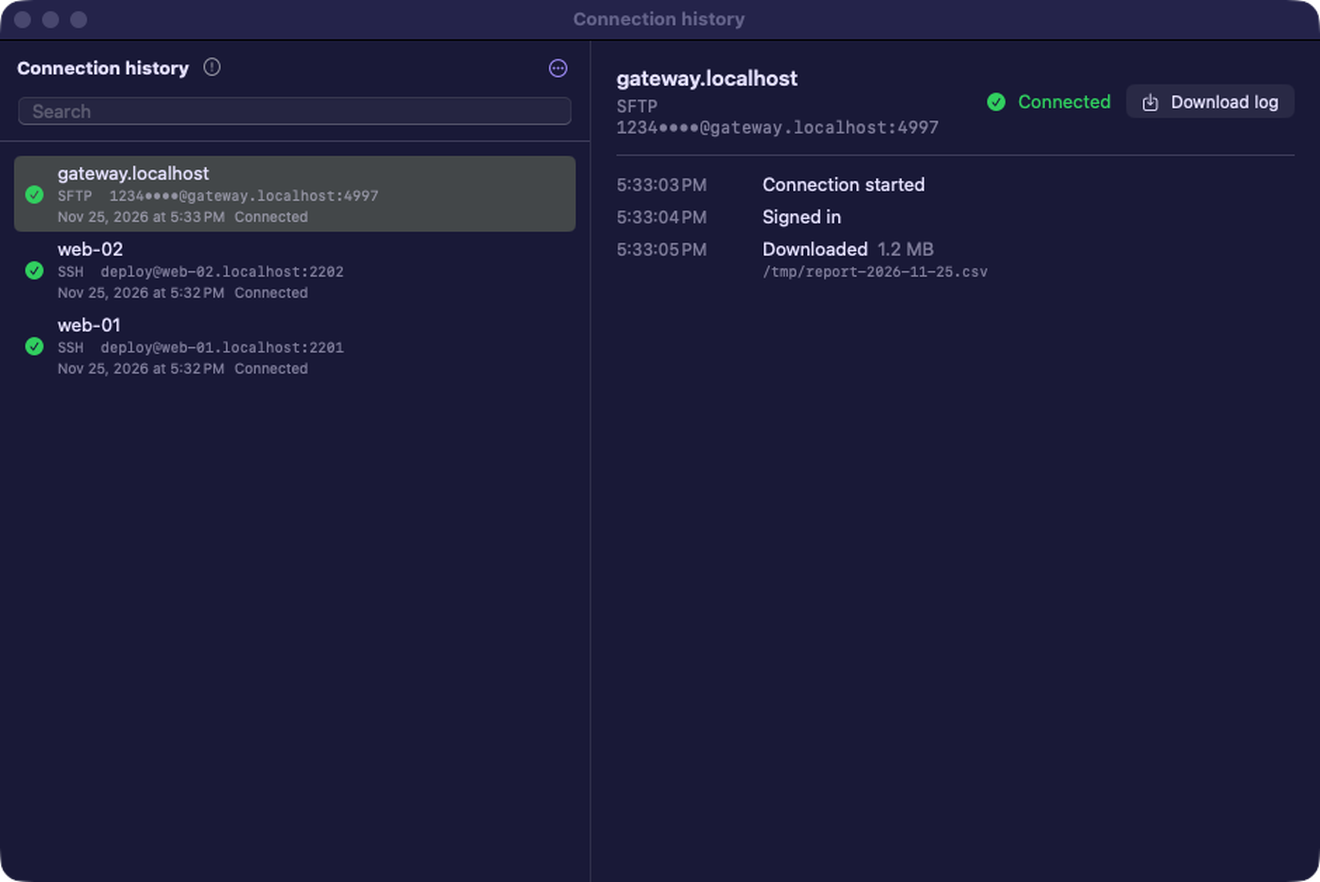
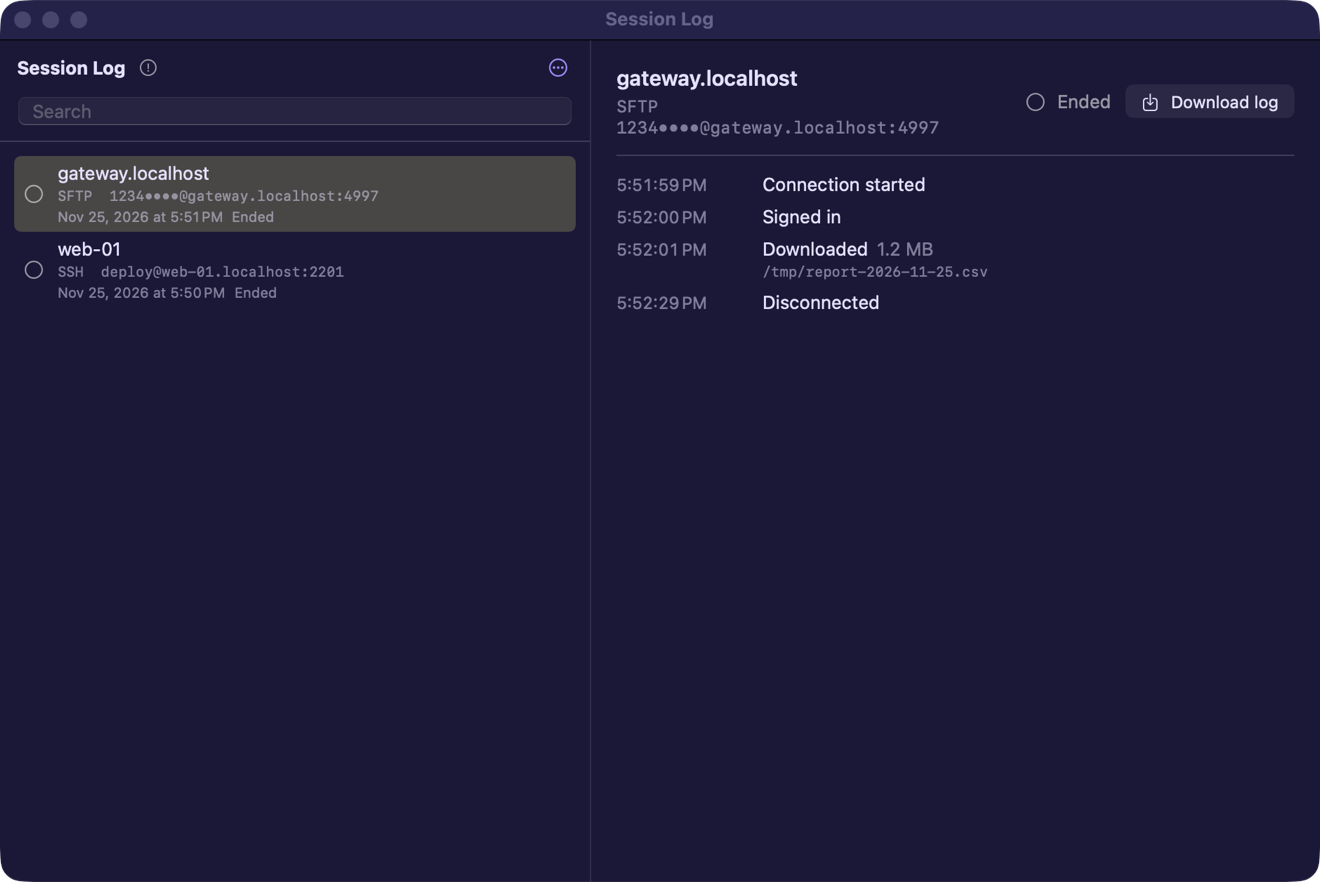
Release Gloamux 1.4.1 (build 10)
- Session Log is the third view in the Default toolbar, next to File
  Transfer and Terminal, with buttons in the Classic toolbar and the
  Workbench ribbon.
- Right-click a saved session to see only records that match its name.
- gloamux tabs view TAB_ID session-log and gloamux history list COUNT
  SEARCH.

diff --git a/Gloamux/Sources/app/ConnectionHistoryView.swift b/Gloamux/Sources/app/ConnectionHistoryView.swift
@@ -9,25 +9,17 @@ struct ConnectionHistoryView: View {
     @AppStorage(ConnectionHistory.enabledKey) private var enabled = true
     @AppStorage(TerminalPreferences.logKey) private var logsEverySession = false
     @State private var selection: UUID?
-    @State private var search = ""
     @State private var confirmsClear = false
     @State private var error: String?
 
-    private var shown: [ConnectionRecord] {
-        let words = search.split(whereSeparator: \.isWhitespace)
-        guard !words.isEmpty else { return history.records }
-        return history.records.filter { record in
-            let text = [record.name, record.address, record.kind] + record.transfers.compactMap(\.detail)
-            return words.allSatisfy { word in text.contains { $0.localizedStandardContains(String(word)) } }
-        }
-    }
+    private var shown: [ConnectionRecord] { history.matching(history.search) }
 
     var body: some View {
         let records = shown
         HSplitView {
             VStack(alignment: .leading, spacing: 0) {
                 HStack(spacing: 8) {
-                    Text(T("Connection history")).appFont(.headline)
+                    Text(T("Session Log")).appFont(.headline)
                     InfoButton(T("Each connection is saved as one record: when, where, how it ended, and which files were copied. Passwords, session keys, answers, and terminal output are not part of it. Records are kept for a year, up to 2,000."))
                     Spacer()
                     Menu {
@@ -43,10 +35,10 @@ struct ConnectionHistoryView: View {
                         .accessibilityLabel(T("History options"))
                 }
                 .padding(12)
-                TextField(T("Search"), text: $search).textFieldStyle(.roundedBorder).padding(.horizontal, 12).padding(.bottom, 10)
+                TextField(T("Search"), text: $history.search).textFieldStyle(.roundedBorder).padding(.horizontal, 12).padding(.bottom, 10)
                 Divider()
                 if records.isEmpty {
-                    ContentUnavailableView(T(search.isEmpty ? "No connections yet" : "No matches"), systemImage: "clock.arrow.circlepath")
+                    ContentUnavailableView(T(history.search.isEmpty ? "No connections yet" : "No matches"), systemImage: "clock.arrow.circlepath")
                         .frame(maxWidth: .infinity, maxHeight: .infinity)
                 } else {
                     List(records, selection: $selection) { record in
@@ -70,7 +62,11 @@ struct ConnectionHistoryView: View {
             }
             .frame(minWidth: 420, maxWidth: .infinity, maxHeight: .infinity)
         }
-        .onAppear { history.reload(); if selection == nil { selection = history.records.first?.id } }
+        .onAppear { history.reload(); if selection == nil { selection = shown.first?.id } }
+        .onChange(of: history.search) { _, _ in
+            let records = shown
+            if !records.contains(where: { $0.id == selection }) { selection = records.first?.id }
+        }
         .alert(T("Clear the connection history?"), isPresented: $confirmsClear) {
             Button(T("Clear"), role: .destructive) { perform { try history.clear() } }
             Button(T("Cancel"), role: .cancel) {}
@@ -128,6 +124,16 @@ struct ConnectionHistoryView: View {
 }
 
 extension ConnectionHistory {
+    /// Records whose name, address, kind, or copied files contain every word.
+    func matching(_ search: String) -> [ConnectionRecord] {
+        let words = search.split(whereSeparator: \.isWhitespace)
+        guard !words.isEmpty else { return records }
+        return records.filter { record in
+            let text = [record.name, record.address, record.kind] + record.transfers.compactMap(\.detail)
+            return words.allSatisfy { word in text.contains { $0.localizedStandardContains(String(word)) } }
+        }
+    }
+
     func exportJSON(_ records: [ConnectionRecord]) throws -> Data {
         try JSONSerialization.data(withJSONObject: records.map { json($0, events: true) }, options: [.prettyPrinted, .sortedKeys, .withoutEscapingSlashes])
     }

diff --git a/Gloamux/Sources/app/Workspace.swift b/Gloamux/Sources/app/Workspace.swift
@@ -381,11 +381,8 @@ enum ConnectionState: Equatable {
     var sessionWindows: [UUID: SavedSessionWindow] = [:]
     /// Uploads and downloads started from any file panel or window.
     lazy var transfers = TransferQueue(model: self)
-    /// Whether the middle of the main window shows terminals or the two-pane file transfer view.
-    @Published private var showingFileTransfer = false
-    var workspaceMode: WorkspaceMode {
-        showingFileTransfer ? .files : .terminal
-    }
+    /// What the middle of the main window shows: the two-pane file transfer view, terminals, or the session log.
+    @Published private(set) var workspaceMode: WorkspaceMode = .terminal
     /// A session in its own window whose files the transfer view shows instead of the selected tab's.
     @Published var pinnedTransferTab: UUID?
     /// The left-hand folder of the file transfer view, kept while switching tabs and modes.
@@ -460,6 +457,8 @@ enum ConnectionState: Equatable {
         tab.outputPending = false
         if maximizedPane != nil && !(split?.contains(id) ?? false) { maximizedPane = nil }
         selection = id; pinnedTransferTab = nil
+        // The session log does not follow the tabs, so choosing one leaves it.
+        if workspaceMode == .log { workspaceMode = .terminal }
         if focusTerminal { tab.terminalFocusRequest += 1 }
     }
 
@@ -612,7 +611,7 @@ enum ConnectionState: Equatable {
         if remember, let type { NewConnectionType.last = type }
         let tab = addTab(select: false)
         tab.newConnectionType = type ?? NewConnectionType.last
-        showingFileTransfer = false
+        workspaceMode = .terminal
         selectTab(tab.id)
         return tab
     }
@@ -1142,7 +1141,7 @@ enum ConnectionState: Equatable {
     func reveal(tab id: UUID) {
         if let window = sessionWindows[id]?.window { window.makeKeyAndOrderFront(nil); return }
         guard tabs.contains(where: { $0.id == id }) else { return }
-        showingFileTransfer = false
+        workspaceMode = .terminal
         selectTab(id)
         bringForward()
     }
@@ -1281,11 +1280,22 @@ enum ConnectionState: Equatable {
             pinnedTransferTab = nil
             if let tab, tab.id != selection { selectTab(tab.id, focusTerminal: false) }
         }
-        showingFileTransfer = true
+        workspaceMode = .files
+    }
+
+    /// The Default layout shows the session log in the main window; the others open its own window.
+    /// `search` narrows the list, for example to one session's name.
+    func showConnectionHistory(search: String = "") {
+        history.reload()
+        history.search = search
+        guard layout == .native else { openTool(.connectionHistory); return }
+        workspaceMode = .log
+        // Opened from Settings or a session's own window, the log is in the window behind it.
+        workspaceWindow?.makeKeyAndOrderFront(nil)
     }
 
     func showTerminal() {
-        showingFileTransfer = false
+        workspaceMode = .terminal
         pinnedTransferTab = nil
         if let selected, selected.desktop == nil && selected.newConnectionType?.editorTool == nil {
             selected.terminalFocusRequest += 1
@@ -1445,7 +1455,7 @@ enum ConnectionState: Equatable {
             controller.showWindow(nil)
             controller.window?.makeKeyAndOrderFront(nil)
         } else {
-            showingFileTransfer = false
+            workspaceMode = .terminal
             selectTab(tab.id, focusTerminal: false)
         }
         return tab

diff --git a/Gloamux/Sources/app/CLICatalog.swift b/Gloamux/Sources/app/CLICatalog.swift
@@ -151,13 +151,13 @@ public enum CLICatalog {
             window TAB_ID | attach TAB_ID
             read TAB_ID [LINES] | send TAB_ID TEXT | run TAB_ID COMMAND_LINE
             readonly TAB_ID on|off | log TAB_ID on|off | record TAB_ID on|off | encoding TAB_ID ENCODING
-            integration TAB_ID | view TAB_ID terminal|files
+            integration TAB_ID | view TAB_ID terminal|files|session-log
             colors TAB_ID XCS_PATH | highlights TAB_ID HIGHLIGHT_PATH
 
             Tab IDs come from gloamux tabs list and stay the same while the tab is open, in any window.
             record saves what the terminal shows, with secrets masked; list them with gloamux recordings.
-            integration types the shell integration hook into the terminal. view switches the window to the terminal or to
-            two-pane file transfer for the tab.
+            integration types the shell integration hook into the terminal. view switches the window to the terminal, to
+            two-pane file transfer for the tab, or to the session log.
             broadcast types into the panes of a split. multiexec types into every terminal of the tab's window.
             read prints the visible screen, or the last LINES lines with scrollback. run presses Return after the text.
             A risky command in a confirming environment waits for your answer in Gloamux.
@@ -224,7 +224,7 @@ public enum CLICatalog {
                    operations: ["list", "show", "log", "export", "remove", "clear"],
                    localPaths: ["log": [1], "export": [0]],
                    help: """
-            list [COUNT] | show ID | log ID PATH | export PATH.csv|PATH.json | remove ID | clear
+            list [COUNT [SEARCH]] | show ID | log ID PATH | export PATH.csv|PATH.json | remove ID | clear
 
             Each connection is one record: when, where, how it ended, and which files were copied. log writes one record as
             text, with its terminal log when there is one. Turn history off with gloamux settings set history.enabled off.

diff --git a/Gloamux/Tests/app/ConnectionHistoryTests.swift b/Gloamux/Tests/app/ConnectionHistoryTests.swift
@@ -56,6 +56,29 @@ import XCTest
         XCTAssertEqual(app.records, [])
     }
 
+    func testSearchAndTheSessionLogView() throws {
+        let model = try WorkspaceModel(storage: scratch())
+        let id = try XCTUnwrap(model.history.begin(name: "Gateway", kind: "sftp", host: "192.0.2.10", port: 4997, user: "u"))
+        model.history.add(.downloaded, to: id, detail: "/tmp/report.csv")
+        _ = model.history.begin(name: "Other", kind: "ssh", host: "192.0.2.11", port: 22, user: "u")
+        model.history.reload()
+        XCTAssertEqual(model.history.matching("").count, 2)
+        XCTAssertEqual(model.history.matching("gateway REPORT").map(\.id), [id])
+        XCTAssertEqual(model.history.matching("gateway other").count, 0)
+
+        let tab = model.addTab()
+        model.showConnectionHistory(search: "Gateway")
+        XCTAssertEqual(model.workspaceMode, .log)
+        XCTAssertEqual(model.history.search, "Gateway")
+        // Choosing a tab leaves the log, and opening the log again starts with everything.
+        model.selectTab(tab.id)
+        XCTAssertEqual(model.workspaceMode, .terminal)
+        model.showConnectionHistory()
+        XCTAssertEqual(model.history.search, "")
+        model.openFileTransfer(for: nil)
+        XCTAssertEqual(model.workspaceMode, .files)
+    }
+
     func testDamagedLinesAndLogsOutsideTheFolder() throws {
         let root = try scratch()
         let file = root.appendingPathComponent("history.jsonl")

diff --git a/Gloamux/Sources/app/FileTransferView.swift b/Gloamux/Sources/app/FileTransferView.swift
@@ -5,12 +5,13 @@ import FileTransfer
 
 /// What the main window shows in the macOS layout.
 enum WorkspaceMode: String, CaseIterable {
-    case files, terminal
+    case files, terminal, log
 
     var title: String {
         switch self {
         case .terminal: return T("Terminal")
         case .files: return T("File Transfer")
+        case .log: return T("Session Log")
         }
     }
 }
@@ -21,7 +22,7 @@ struct WorkspaceModeSwitch: View {
     let choose: (WorkspaceMode) -> Void
 
     var body: some View {
-        // Both halves take the wider title's width, so the switch is symmetric in every language.
+        // Every segment takes the wider title's width, so the switch is symmetric in every language.
         EqualWidthRow(spacing: 2) {
             ForEach(WorkspaceMode.allCases, id: \.self) { segment($0) }
         }
@@ -33,7 +34,7 @@ struct WorkspaceModeSwitch: View {
     private func segment(_ value: WorkspaceMode) -> some View {
         let selected = mode == value
         return Button { if !selected { choose(value) } } label: {
-            // The bold title is laid out hidden underneath, so choosing a side doesn't change its width.
+            // The bold title is laid out hidden underneath, so choosing one doesn't change its width.
             ZStack {
                 Text(value.title).appFont(.system(size: 12, weight: .semibold)).hidden()
                 Text(value.title)

diff --git a/Gloamux/Sources/app/TerminalTools.swift b/Gloamux/Sources/app/TerminalTools.swift
@@ -82,7 +82,7 @@ public struct TerminalCommands: Commands {
             Button(T(menu.logging ? "Stop session log" : "Start session log")) { model.toggleLogging() }
                 .keyboardShortcut("l", modifiers: [.command, .option])
                 .disabled(!live && !menu.logging)
-            Button(T("Connection history")) { model.showConnectionHistory() }
+            Button(T("Session Log")) { model.showConnectionHistory() }
             Button(T("Show session logs")) { model.logs.revealFolder() }
             Button(T("Save output…")) { model.saveOutput() }
                 .keyboardShortcut("s", modifiers: [.command, .shift])
@@ -221,8 +221,8 @@ struct LogIndicator: View {
         if logs.isLogging(tab) {
             Menu {
                 Button(T("Stop session log")) { model.toggleLogging(tab) }
-                Button(T("Connection history")) { model.showConnectionHistory() }
-            Button(T("Show session logs")) { logs.revealFolder() }
+                Button(T("Session Log")) { model.showConnectionHistory() }
+                Button(T("Show session logs")) { logs.revealFolder() }
             } label: {
                 HStack(spacing: 3) {
                     Image(systemName: "doc.text").appFont(.system(size: 9, weight: .semibold))

diff --git a/Gloamux/Sources/app/DesktopView.swift b/Gloamux/Sources/app/DesktopView.swift
@@ -480,9 +480,10 @@ public struct DesktopView: View {
             switch mode {
             case .terminal: model.showTerminal()
             case .files: model.openFileTransfer(for: nil)
+            case .log: model.showConnectionHistory()
             }
         }
-        .help(T("Switch between the terminal and two-pane file transfer"))
+        .help(T("Switch between file transfer, the terminal, and the session log"))
         .accessibilityIdentifier("workspaceModePicker")
     }
 
@@ -541,6 +542,10 @@ public struct DesktopView: View {
         ZStack {
             if model.layout == .native && model.workspaceMode == .files {
                 FileTransferView(model: model, local: model.localBrowser, queue: model.transfers, target: model.mainTransferTarget)
+            } else if model.layout == .native && model.workspaceMode == .log {
+                ConnectionHistoryView(model: model, history: model.history)
+                    .background(model.theme.background.color)
+                    .clipShape(RoundedRectangle(cornerRadius: 10, style: .continuous))
             } else if let split = model.split {
                 if let id = model.maximizedPane, let tab = model.tabs.first(where: { $0.id == id }) {
                     pane(tab, card: true)

diff --git a/Gloamux/Sources/app/ClassicLayouts.swift b/Gloamux/Sources/app/ClassicLayouts.swift
@@ -243,6 +243,7 @@ private struct ClassicToolbar<NewItems: View>: View {
             }
             ToolSeparator()
             SessionLogIcon(model: model, logs: model.logs)
+            ToolIcon(symbol: "clock.arrow.circlepath", help: "Session Log", color: .brown) { model.showConnectionHistory() }
             ToolIcon(symbol: "highlighter", help: "Import highlight set", color: .yellow, enabled: tab.map { $0.desktop == nil } ?? false) {
                 model.chooseHighlightSet()
             }
@@ -507,6 +508,7 @@ private struct MobaRibbon<NewItems: View>: View {
             RibbonButton(symbol: "x.square.fill", title: "X server", color: .indigo, active: xServerRunning) {
                 if let problem = XQuartz.open() { model.error = problem }
             }
+            RibbonButton(symbol: "clock.arrow.circlepath", title: "Session Log", color: .brown) { model.showConnectionHistory() }
             RibbonButton(symbol: "key.fill", title: "Saved passwords", color: .yellow) {
                 Task { if await model.authorizeSavedSignIns() { showingSignIns = true } }
             }

diff --git a/Gloamux/Sources/app/WorkspaceCommandTools.swift b/Gloamux/Sources/app/WorkspaceCommandTools.swift
@@ -104,7 +104,7 @@ extension WorkspaceCommand {
         }
     }
 
-    /// `history list [COUNT]|show ID|log ID PATH|export PATH|remove ID|clear`: the Connection history window.
+    /// `history list [COUNT [SEARCH]]|show ID|log ID PATH|export PATH|remove ID|clear`: the Session Log.
     @MainActor static func history(_ action: String, _ args: [String], _ model: WorkspaceModel) throws -> Any {
         let history = model.history
         history.reload()
@@ -121,9 +121,9 @@ extension WorkspaceCommand {
         }
         switch action {
         case "list":
-            try count(args, 0...1)
+            try count(args, 0...2)
             guard let limit = args.first.map({ Int($0) }) ?? 50, limit > 0 else { throw Usage("Enter how many connections to list.") }
-            return history.records.prefix(limit).map { history.json($0) }
+            return history.matching(args.count > 1 ? args[1] : "").prefix(limit).map { history.json($0) }
         case "show":
             try count(args, 1...1)
             return history.json(try record(args[0]), events: true)

diff --git a/Gloamux/Sources/app/CommandPalette.swift b/Gloamux/Sources/app/CommandPalette.swift
@@ -142,7 +142,7 @@ extension WorkspaceModel {
                 shortcut: "⌥⌘R") { [weak self] in self?.toggleRecording(tab) }
         }
         add("recordings", "Recordings…", "play.rectangle", "Terminal") { [weak self] in self?.showRecordings() }
-        add("history", "Connection history", "clock.arrow.circlepath", "Session") { [weak self] in self?.showConnectionHistory() }
+        add("history", "Session Log", "clock.arrow.circlepath", "Session") { [weak self] in self?.showConnectionHistory() }
         add("sftp.command", "New session from sftp command", "arrow.up.arrow.down.circle", "Session") { [weak self] in self?.showSFTPCommand() }
         add("runbooks", "Runbooks…", "book.pages", "Terminal") { [weak self] in self?.showRunbooks() }
         for file in runbooks.files.prefix(30) {

diff --git a/Gloamux/Sources/app/ToolWindows.swift b/Gloamux/Sources/app/ToolWindows.swift
@@ -11,7 +11,7 @@ enum ToolWindowKind: String, CaseIterable {
         case .runbooks: return "Runbooks"
         case .discovery: return "Discover hosts"
         case .hostKeyHistory: return "Host keys"
-        case .connectionHistory: return "Connection history"
+        case .connectionHistory: return "Session Log"
         case .containers: return "Other session"
         case .rdp, .vnc, .desktopEditor: return "Remote desktop"
         }
@@ -95,7 +95,6 @@ extension WorkspaceModel {
     }
 
     func showRecordings() { openTool(.recordings) }
-    func showConnectionHistory() { history.reload(); openTool(.connectionHistory) }
     func showRunbooks() { openTool(.runbooks) }
     public func showCommandPalette() { commandPaletteShown = true }
 }

diff --git a/Gloamux/Sources/app/PreferencesView.swift b/Gloamux/Sources/app/PreferencesView.swift
@@ -323,7 +323,7 @@ private struct TerminalSettings: View {
                 Toggle(isOn: $keepsHistory) {
                     label(T("Keep connection history"), T("Each connection is saved as one record: when, where, how it ended, and which files were copied. Passwords, session keys, answers, and terminal output are not part of it. Records are kept for a year, up to 2,000."))
                 }
-                LabeledContent(T("Connection history")) {
+                LabeledContent(T("Session Log")) {
                     Button(T("Show")) { model.showConnectionHistory() }
                 }
                 LabeledContent(T("Session logs")) {
